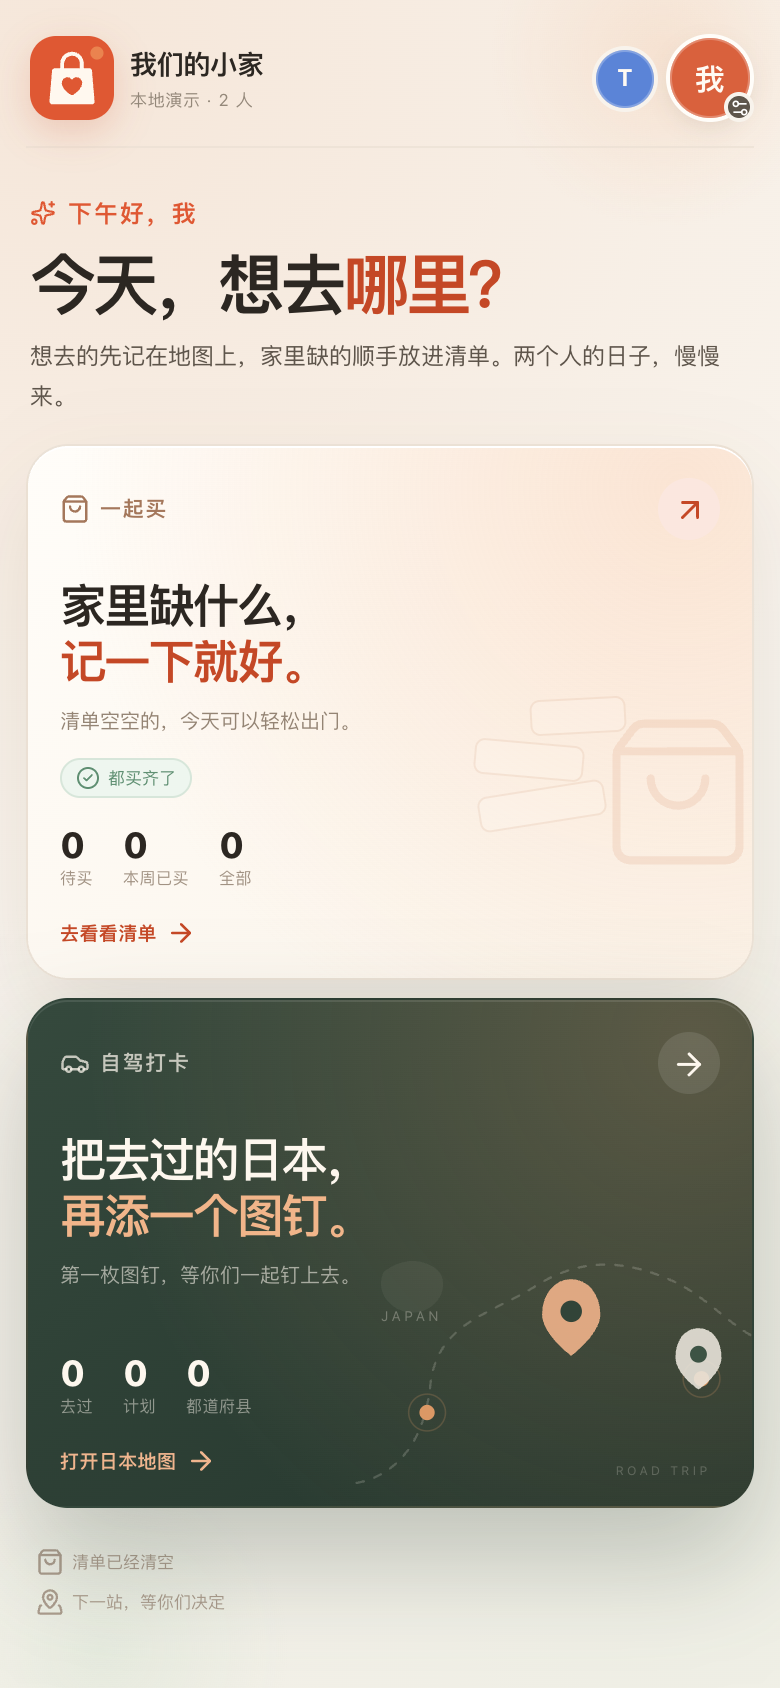
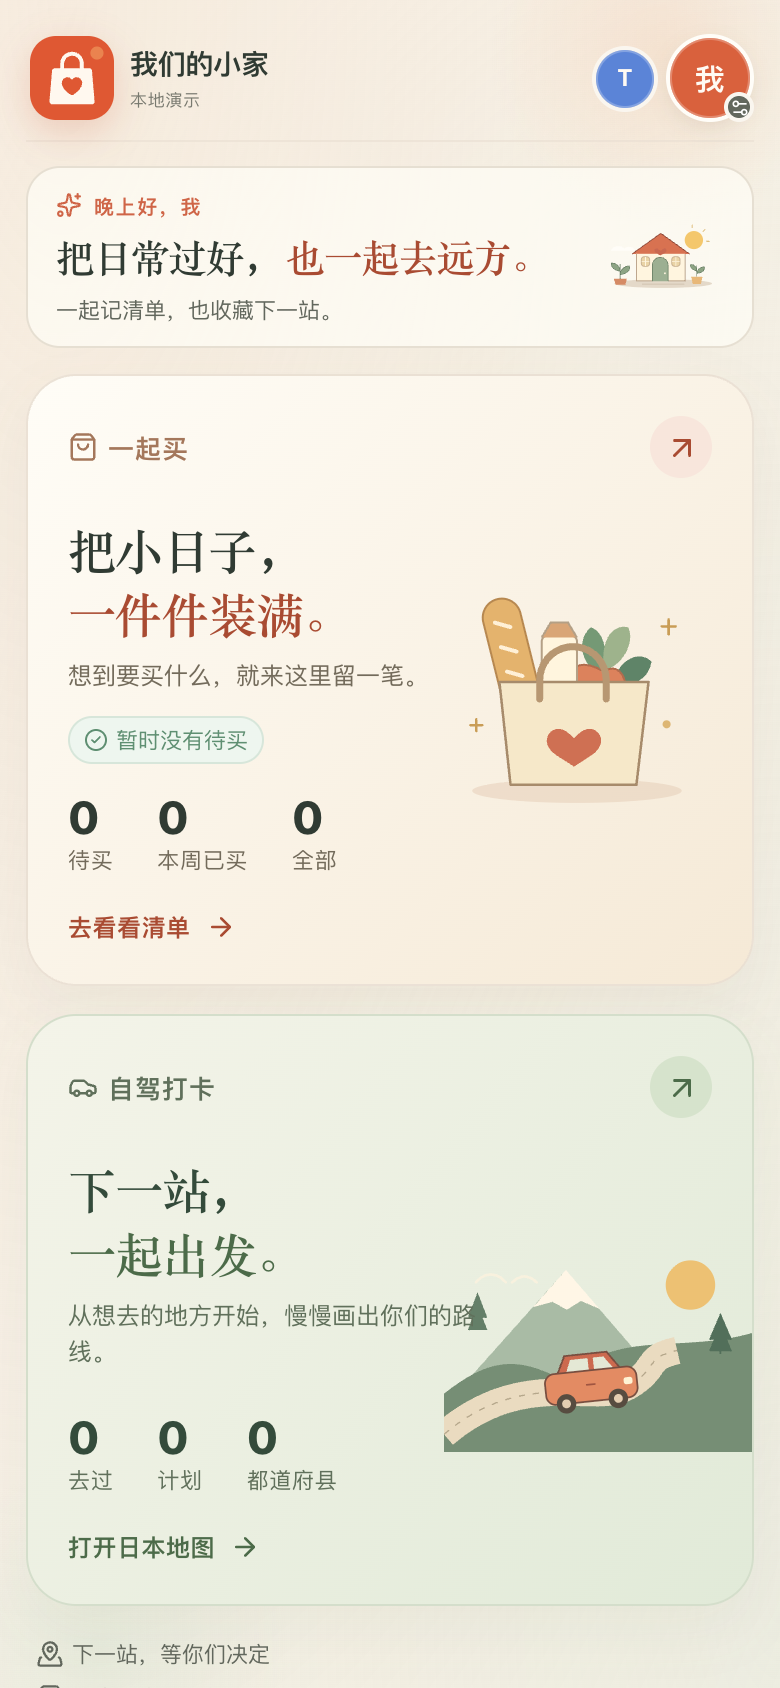
同步小家控文案和首页截图

diff --git a/README.md b/README.md
@@ -90,7 +90,7 @@ npm install
 npm run dev
 ```
 
-打开 `http://localhost:5173`，会看到演示模式。点「以小雨进入」或「以阿哲进入」就能体验完整界面。
+打开 `http://localhost:5173`，会看到演示模式。点「以我的身份进入」或「以 TA 的身份进入」就能体验完整界面。
 
 演示模式的数据保存在浏览器 `localStorage`，换设备不会同步。
 
